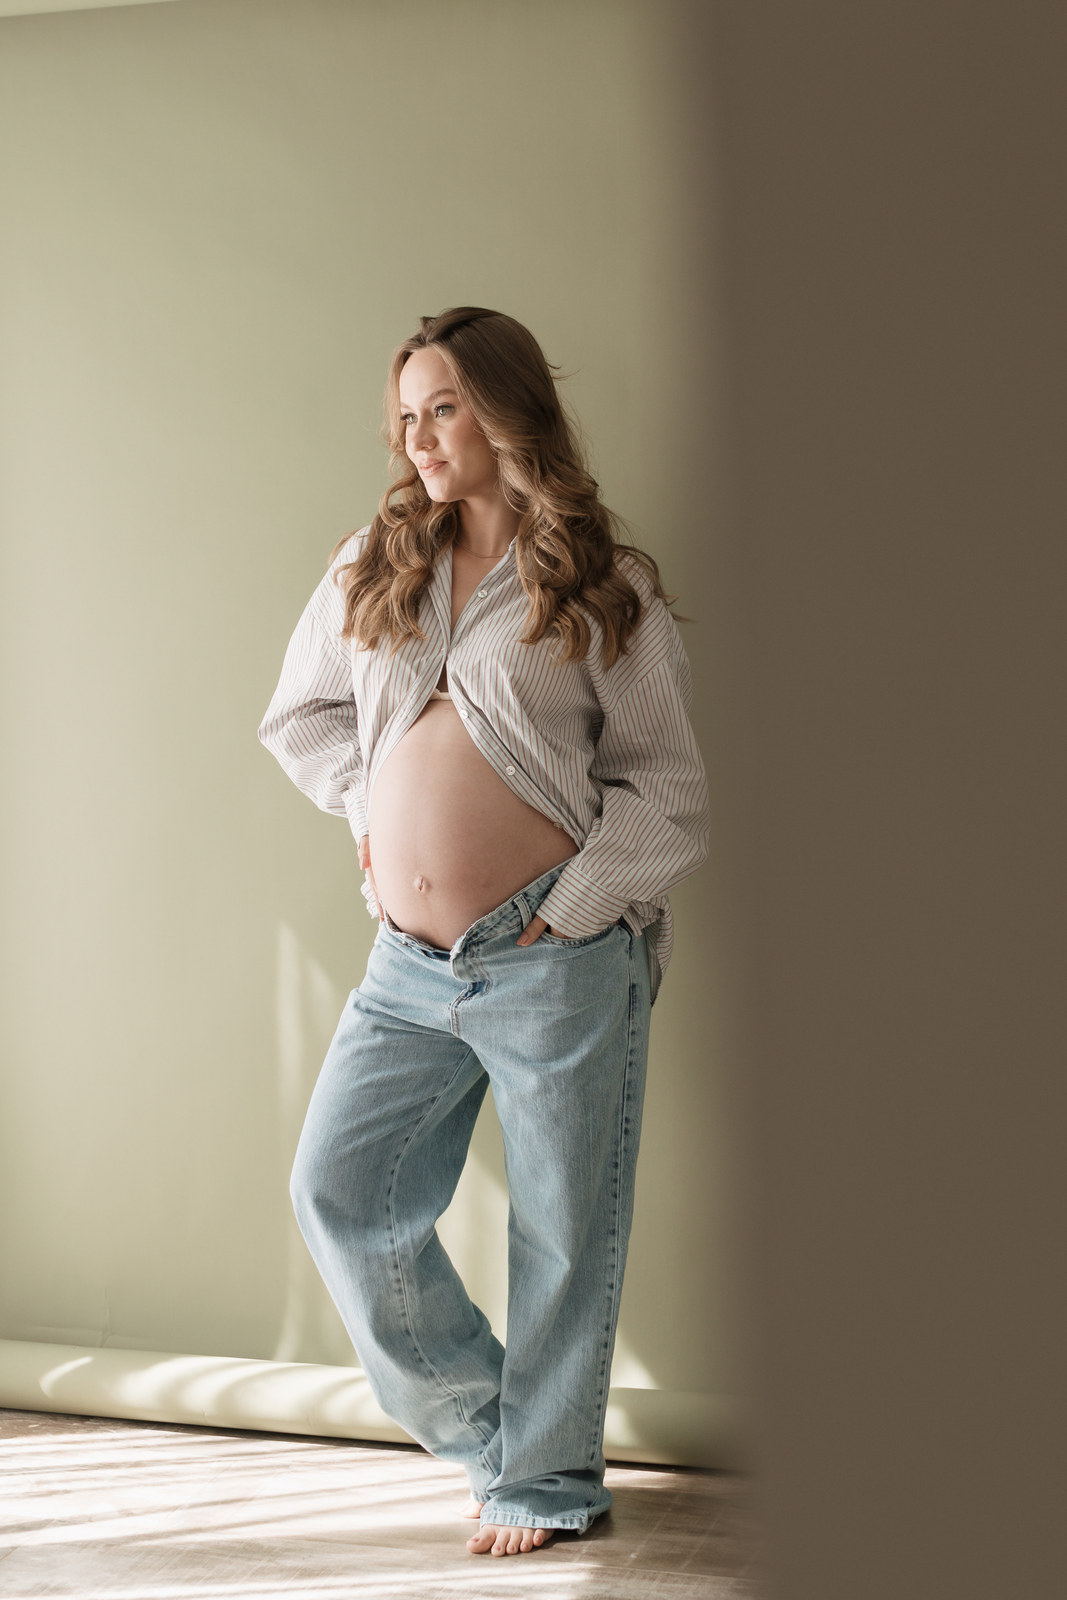
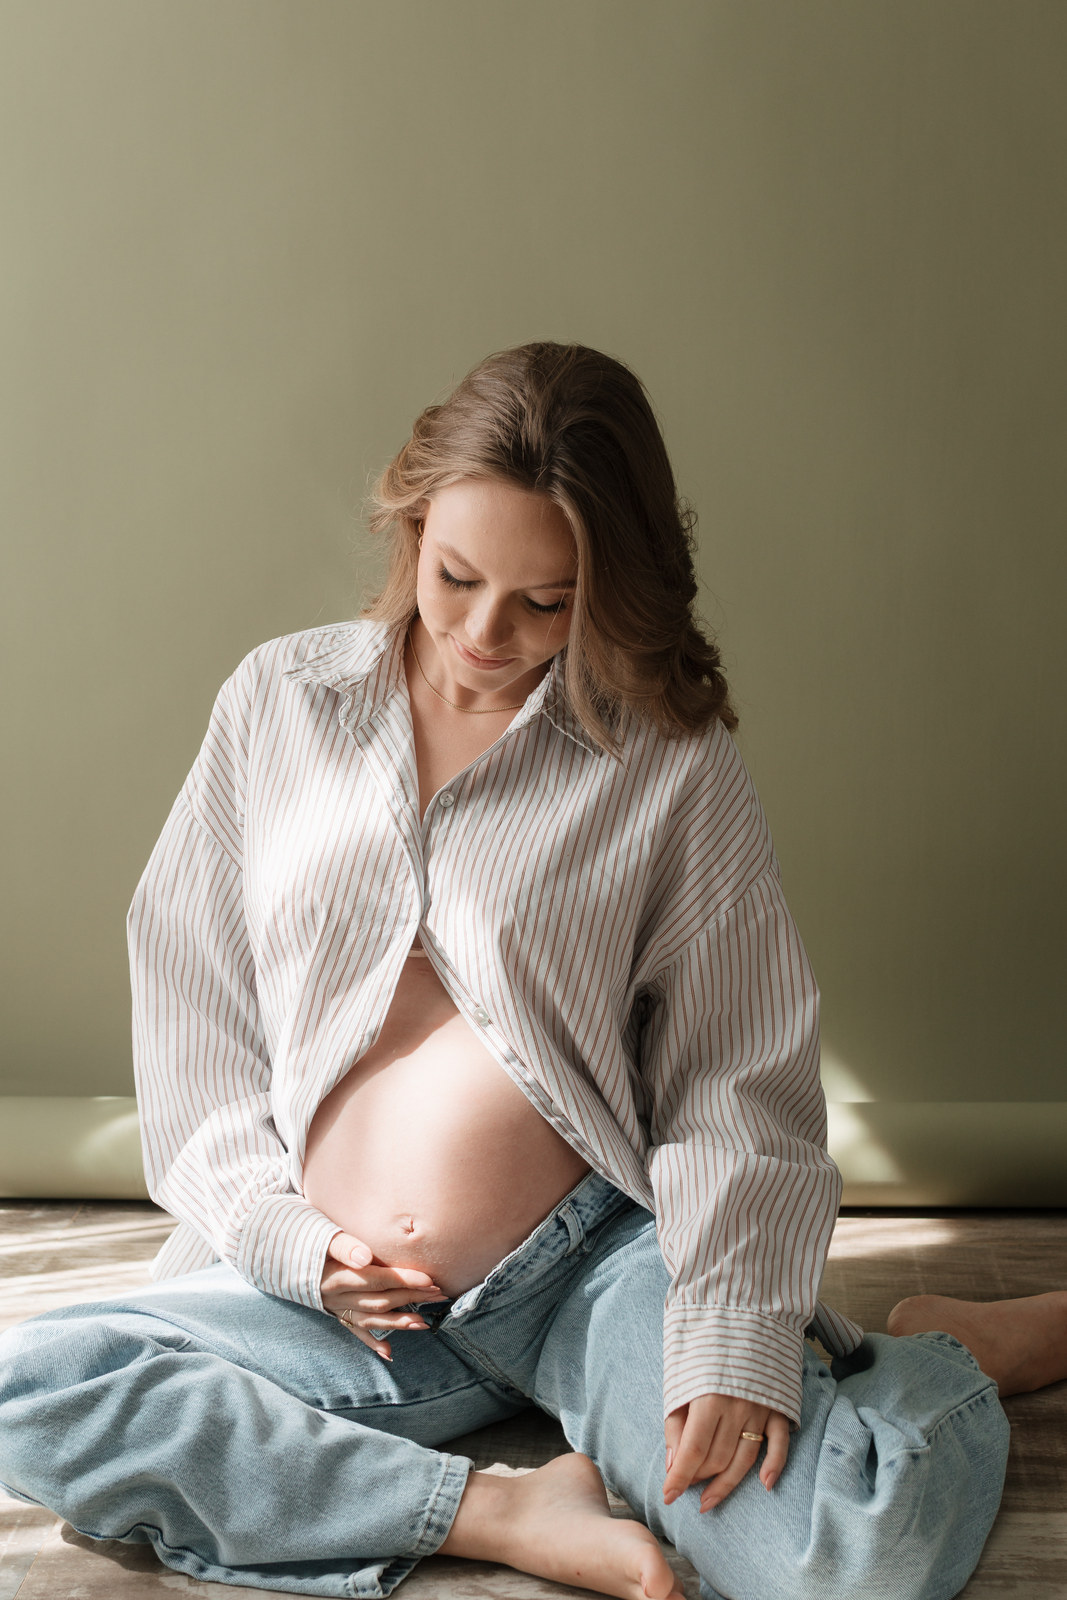
Nova foto de capa; antiga capa entra no carrossel (9 fotos)

diff --git a/assets/config.js b/assets/config.js
@@ -32,14 +32,15 @@ window.APP_CONFIG = {
     titulo: "Sobre o meu trabalho",
     texto: "",           // 2 ou 3 frases sobre o jeito da fotógrafa
     fotos: [
-      { src: "assets/fotos/carrossel/01.jpg" },
-      { src: "assets/fotos/carrossel/02.jpg" },
-      { src: "assets/fotos/carrossel/03.jpg" },
-      { src: "assets/fotos/carrossel/04.jpg" },
-      { src: "assets/fotos/carrossel/05.jpg" },
-      { src: "assets/fotos/carrossel/06.jpg" },
-      { src: "assets/fotos/carrossel/07.jpg" },
-      { src: "assets/fotos/carrossel/08.jpg" }
+      { src: "assets/fotos/carrossel/01.jpg?v=202609301037" },
+      { src: "assets/fotos/carrossel/02.jpg?v=202609301037" },
+      { src: "assets/fotos/carrossel/03.jpg?v=202609301037" },
+      { src: "assets/fotos/carrossel/04.jpg?v=202609301037" },
+      { src: "assets/fotos/carrossel/05.jpg?v=202609301037" },
+      { src: "assets/fotos/carrossel/06.jpg?v=202609301037" },
+      { src: "assets/fotos/carrossel/07.jpg?v=202609301037" },
+      { src: "assets/fotos/carrossel/08.jpg?v=202609301037" },
+      { src: "assets/fotos/carrossel/09.jpg?v=202609301037" }
     ],
     fotosNoFormulario: false  // true = faixa com 3 fotos na abertura (quando não houver fotos laterais)
   },
@@ -139,7 +140,7 @@ window.APP_CONFIG = {
         assinatura: "por Ju Cordeiro",
         texto: "Ensaio de gestante com estética natural, direção leve e um olhar sensível para a espera.",
         botao: "Começar",
-        fotoCentral: { src: "assets/fotos/capa.jpg", foco: "35% 40%" },   // 1 foto no topo, dissolvendo para baixo
+        fotoCentral: { src: "assets/fotos/capa.jpg?v=202609301037", foco: "45% 25%" },   // 1 foto no topo, dissolvendo para baixo
         fotosLaterais: [],   // 2 fotos na vertical, uma de cada lado (1 foto = repete espelhada)   // 2 fotos na vertical, uma de cada lado (vazio = usa home.fotosHero)
         tempo: "Responda em 1 minuto e receba valores e datas no seu WhatsApp"
       },

diff --git a/index.html b/index.html
@@ -7,7 +7,7 @@
   <title>Início</title>
   <link rel="preconnect" href="https://fonts.googleapis.com">
   <link rel="preconnect" href="https://fonts.gstatic.com" crossorigin>
-  <link rel="stylesheet" href="assets/style.css?v=202609301031">
+  <link rel="stylesheet" href="assets/style.css?v=202609301037">
 </head>
 <body class="home-page">
   <header class="hero" id="hero">
@@ -34,7 +34,7 @@
 
 <p class="load-fail" id="load-fail" hidden>Não foi possível carregar os arquivos da pasta <b>assets/</b>. Confira se ela foi enviada junto com as páginas (assets/config.js, common.js, form.js e style.css) e abra a página em um navegador normal.</p>
   <script>setTimeout(function(){ if(!window.LP||!window.APP_CONFIG){ var e=document.getElementById('load-fail'); e.hidden=false; e.style.cssText='font:16px/1.5 system-ui,sans-serif;max-width:480px;margin:40px auto;padding:16px;border:1px solid #d33;border-radius:10px;color:#222;background:#fff'; } }, 1500);</script>
-  <script src="assets/config.js?v=202609301031"></script>
+  <script src="assets/config.js?v=202609301037"></script>
   <script>
     // Página inicial desligada (home.ativa = false): abre direto o formulário, mantendo as UTMs
     (function () {
@@ -43,7 +43,7 @@
       if (H.ativa === false && f) { document.documentElement.style.visibility = 'hidden'; location.replace(f.pagina + location.search); }
     })();
   </script>
-  <script src="assets/common.js?v=202609301031"></script>
+  <script src="assets/common.js?v=202609301037"></script>
   <script>
     (function () {
       var LP = window.LP, C = LP.config, H = C.home, el = LP.el;

diff --git a/gestante.html b/gestante.html
@@ -8,7 +8,7 @@
   <title>Ensaio gestante</title>
   <link rel="preconnect" href="https://fonts.googleapis.com">
   <link rel="preconnect" href="https://fonts.gstatic.com" crossorigin>
-  <link rel="stylesheet" href="assets/style.css?v=202609301031">
+  <link rel="stylesheet" href="assets/style.css?v=202609301037">
 </head>
 <body class="form-page" data-form="gestante">
   <div class="progress" aria-hidden="true"><div class="progress-bar" id="progress-bar"></div></div>
@@ -20,8 +20,8 @@
 
 <p class="load-fail" id="load-fail" hidden>Não foi possível carregar os arquivos da pasta <b>assets/</b>. Confira se ela foi enviada junto com as páginas (assets/config.js, common.js, form.js e style.css) e abra a página em um navegador normal.</p>
   <script>setTimeout(function(){ if(!window.LP||!window.APP_CONFIG){ var e=document.getElementById('load-fail'); e.hidden=false; e.style.cssText='font:16px/1.5 system-ui,sans-serif;max-width:480px;margin:40px auto;padding:16px;border:1px solid #d33;border-radius:10px;color:#222;background:#fff'; } }, 1500);</script>
-  <script src="assets/config.js?v=202609301031"></script>
-  <script src="assets/common.js?v=202609301031"></script>
-  <script src="assets/form.js?v=202609301031"></script>
+  <script src="assets/config.js?v=202609301037"></script>
+  <script src="assets/common.js?v=202609301037"></script>
+  <script src="assets/form.js?v=202609301037"></script>
 </body>
 </html>
